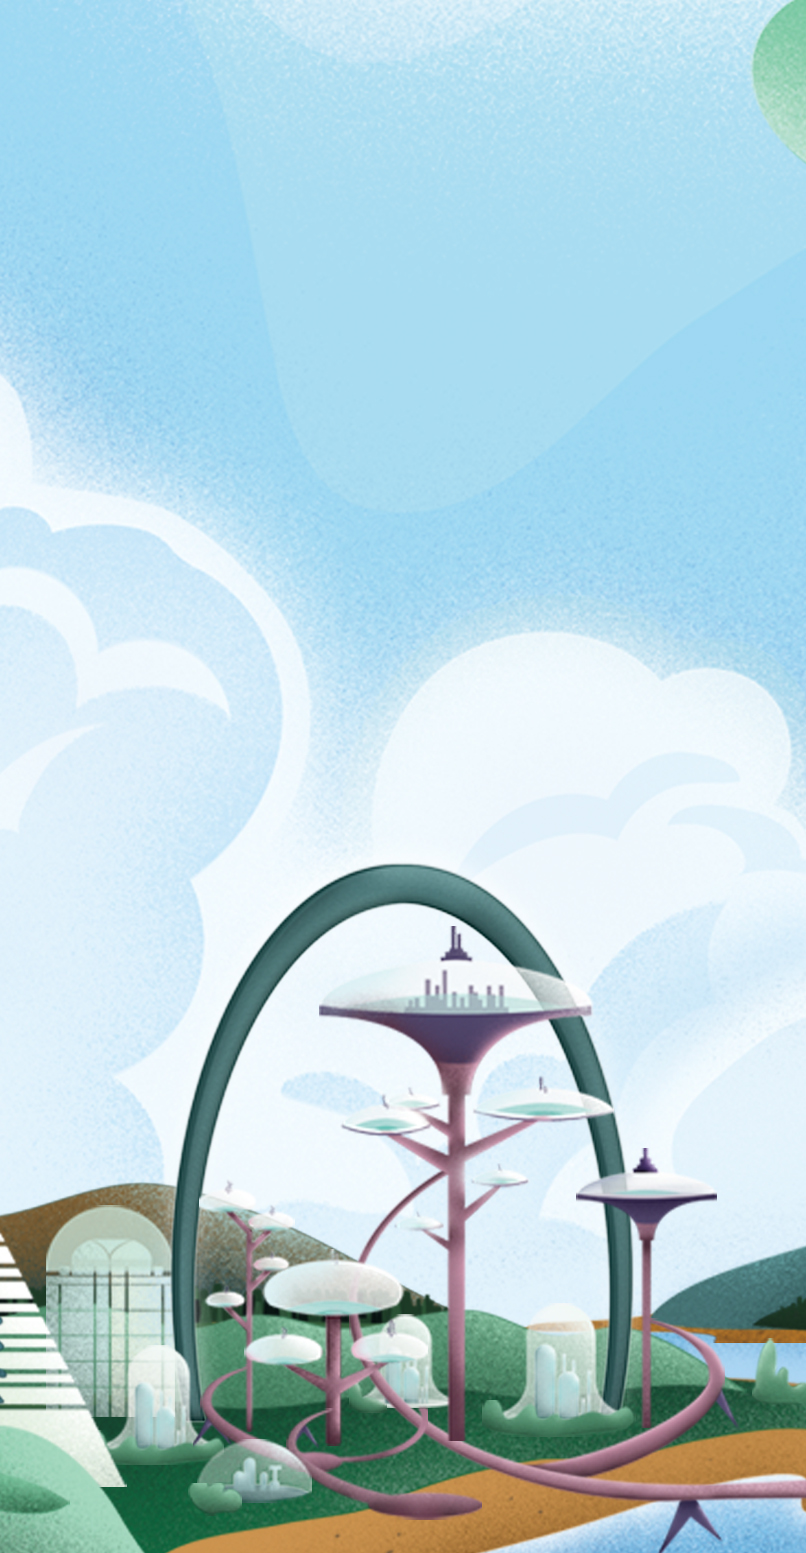
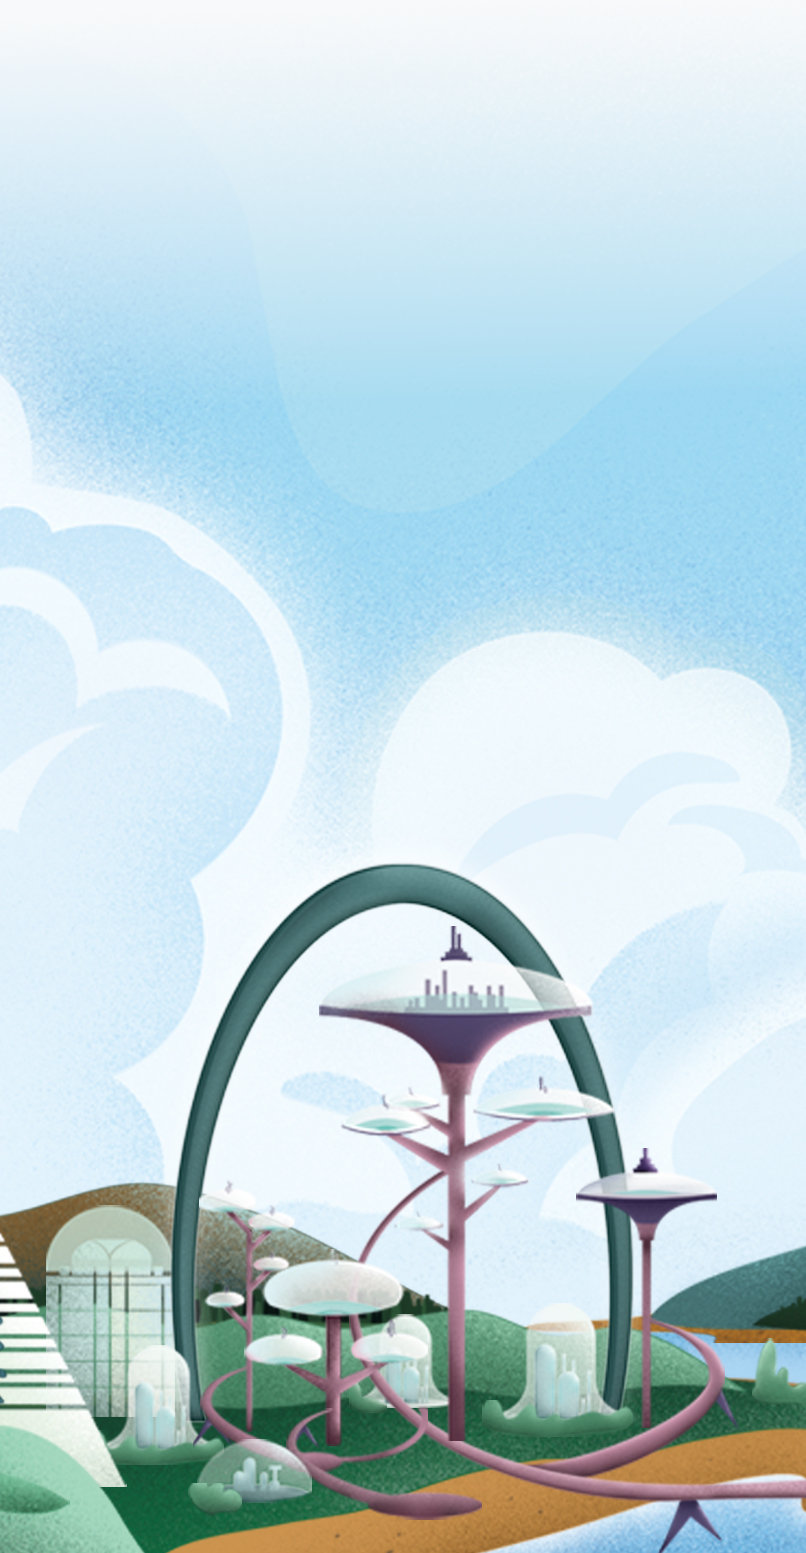
configurable background images feature

Changed region(s): [[0.0, 0.0, 1.0, 0.2164]]

diff --git a/assets/css/index.scss b/assets/css/index.scss
@@ -18,6 +18,33 @@ main {
   min-height: 400px;
 }
 
+// Background images, usually applied to element "main".
+[class*="bg-illustration-"] {
+  background-repeat: no-repeat;
+  background-position: bottom;
+  background-size: 100% auto;
+}
+.bg-illustration-1 {
+  background-image: url(/assets/images/illustration-01.jpg);
+}
+.bg-illustration-2 {
+  background-image: url(/assets/images/illustration-02.jpg);
+}
+.bg-illustration-3 {
+  background-image: url(/assets/images/illustration-03.jpg);
+
+  /* We want the background graphic visible at the bottom with no text overlay. As we 
+   * know the graphic width is always ~95% of the viewport and the area to keep without 
+   * text is almost square, we can use viewport-relative percentage units. */
+  padding-bottom: 90vw;
+}
+.bg-illustration-4 {
+  background-image: url(/assets/images/illustration-04.jpg);
+}
+.bg-illustration-5 {
+  background-image: url(/assets/images/illustration-05.jpg);
+}
+
 h2 {
   font-size: 3rem;
   margin: 90px 0 35px;
